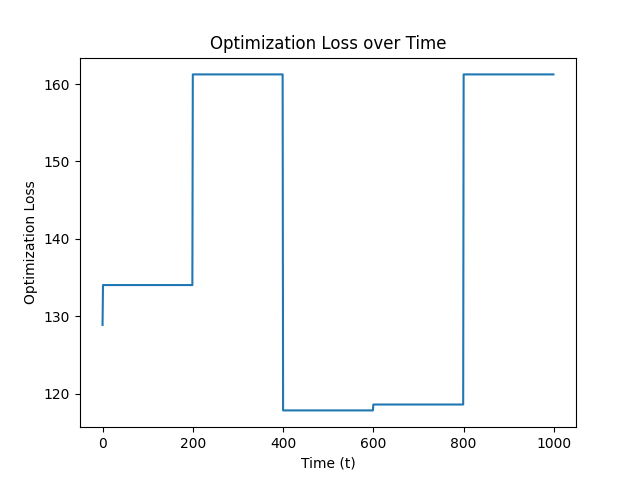
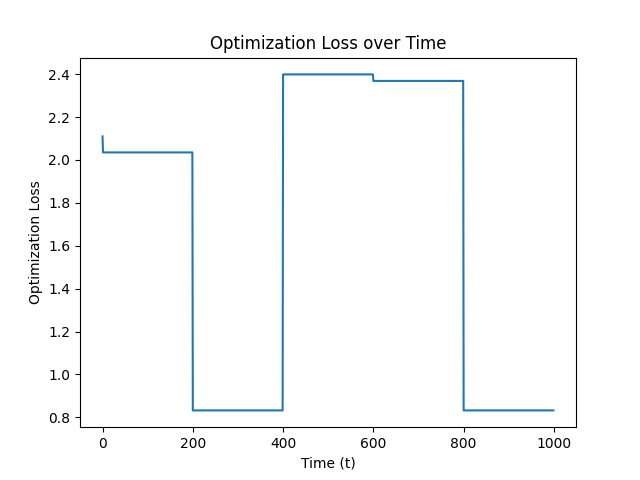
Pushing update

diff --git a/Updated_Test.py b/Updated_Test.py
@@ -136,7 +136,7 @@ def compute_cost(x, *args):
             
             total_cost += current_cost
 
-    return -total_cost
+    return total_cost
 
 
     ## Loop through the linguistic constraints
@@ -244,9 +244,9 @@ if __name__ == '__main__':
     language_data = analyze_sentences(test_sentences)
 
     language_data['snr'] = {
-        'values' : [20, 40],
+        'values' : [50, 70],
         'direction_label' :['Higher', 'Higher'],
-        'direction_num' : [-1, -1],
+        'direction_num' : [1, 1],
         'goal_weights' : [100, 1]
     }
 
